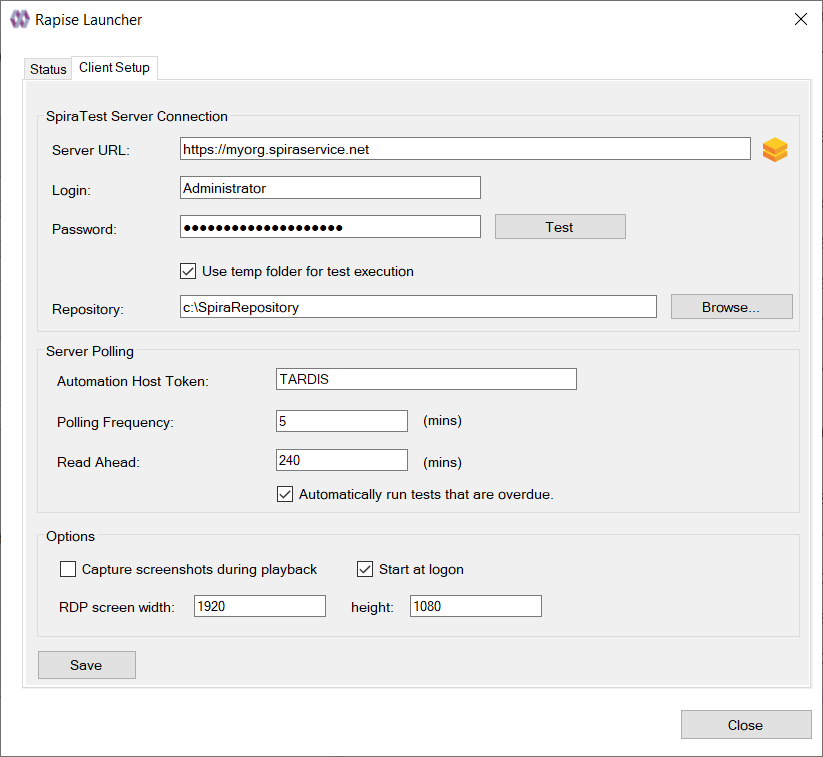
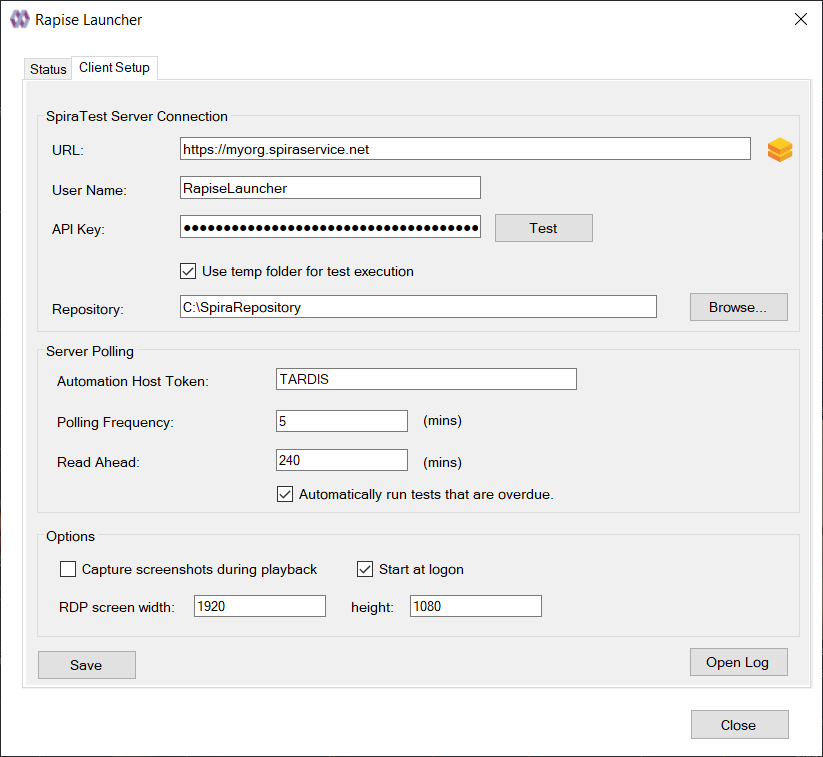
Docs: Correct docs regarding Password vs API Key required for Spira connection https://spira.inflectra.com/12/Incident/6947.aspx

diff --git a/docs/Guide/spiratest_integration.md b/docs/Guide/spiratest_integration.md
@@ -411,9 +411,9 @@ By right clicking on the system tray icon and selecting `Configuration`, the app
 The panel has the following options:
 
 - **SpiraTest Server Connection**
-    - **Server URL**: This is the URL of the SpiraTest installation. Be sure to not put /Login.aspx or any other page in the string, this should be just the root URL of the application's install.
-    - **Login Username**: This is the SpiraTest login id of the user that you want the tests reported as. Note that while the application is polling and updating test results, if the user is logged into a web browser session, they will get kicked out.
-    - **Login Password**: The password to the Username above.
+    - **URL**: This is the URL of the SpiraTest installation. Be sure to not put /Login.aspx or any other page in the string, this should be just the root URL of the application's install.
+    - **User Name**: This is the SpiraTest login id of the user that you want the tests reported as. Note that while the application is polling and updating test results, if the user is logged into a web browser session, they will get kicked out.
+    - **API Key**: The [API Key](https://spiradoc.inflectra.com/HowTo-Guides/Users-profile-management/?_ga=2.209824854.2141741329.1643112840-308801923.1641378277#how-to-get-or-make-your-rss-token-or-api-key) for the to the User Name above.
     - **Test**: Clicking this will test the login to make sure the application can connect to the server properly.
     - **Repository** -- this is the Windows folder that used to store local copies of the non-absolute repositories (downloaded from SpiraTest).
     - **Use Temp Folder for Test Execution** -- this should be enabled if you are also writing tests on this computer using Rapise and you don't want RapiseLauncher to download and overwrite any changes you have made locally (that have not been saved).
